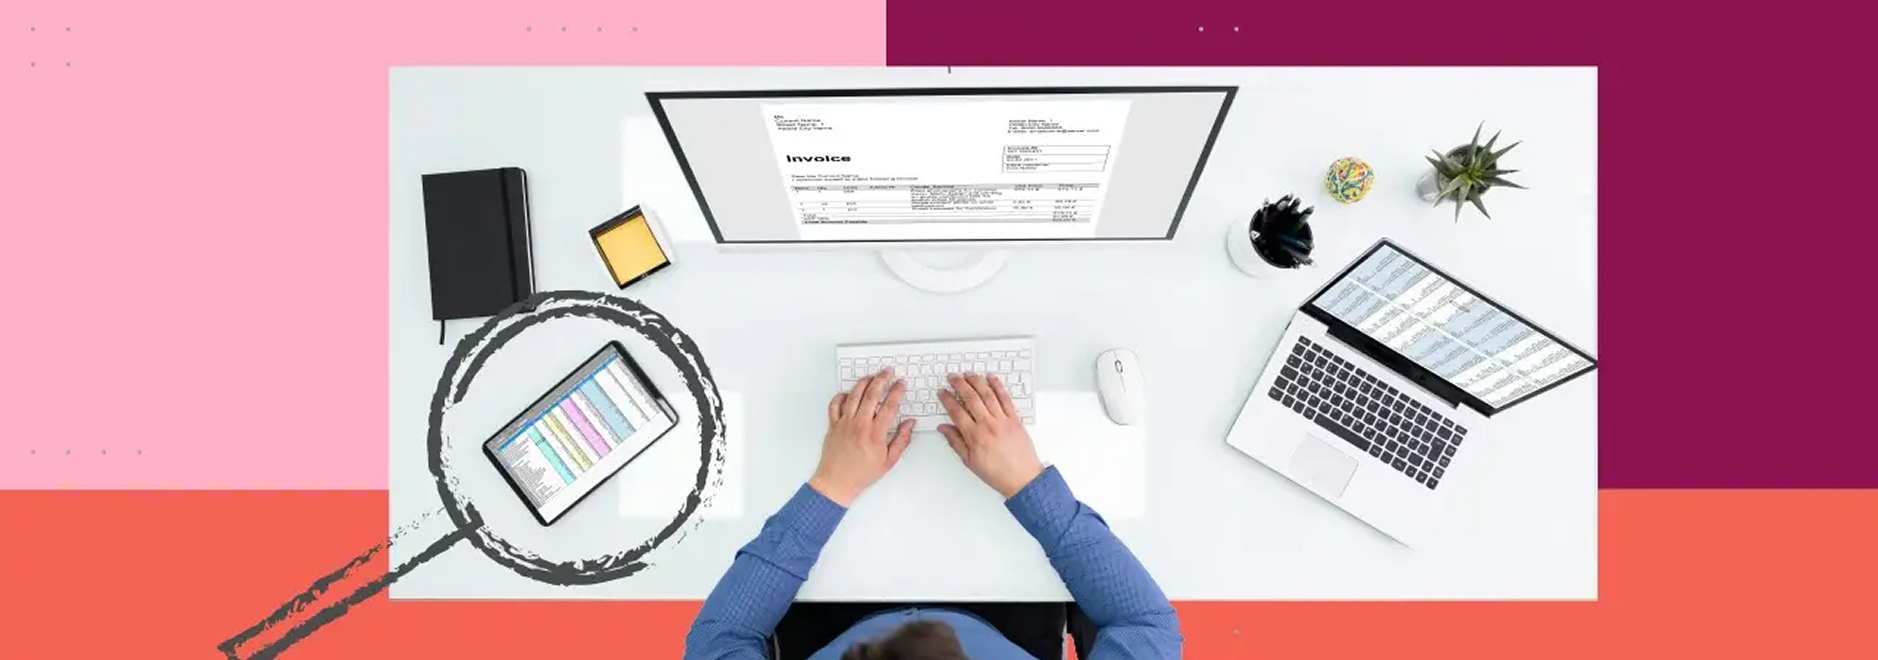
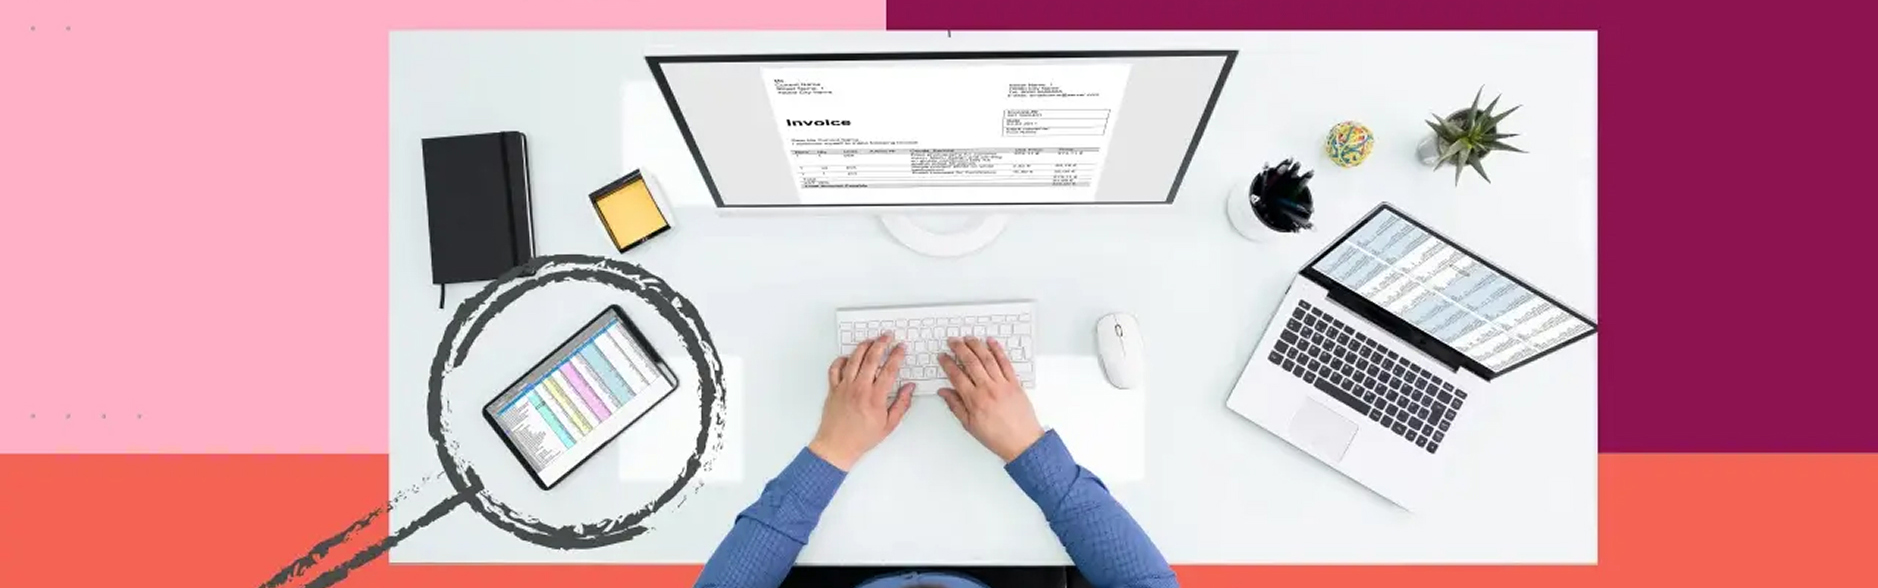
on our work page reduce image height and added bullets.

Changed region(s): [[0.0, 0.0306, 0.8647, 1.0], [0.8339, 0.7347, 1.0, 0.7959], [0.5868, 0.6122, 0.6177, 0.6735]]

diff --git a/src/app/our-works/_components/Projects.tsx b/src/app/our-works/_components/Projects.tsx
@@ -68,22 +68,22 @@ const projects = [
         cardHeading: "Capabilities involved",
         cardDes: (
           <>
-            hardware design <br />
-            PCB layout & routing <br />
-            antenna design <br />
-            RF protocol design <br />
-            firmware development <br />
-            power optimization <br />
-            mechanical design
-            <br />
-            3D rendering <br />
-            custom PCB membrane design <br />
-            user interface design
-            <br />
-            power & signal integrity analysis <br />
-            lab prototyping <br />
-            tooling design <br />
-            DfM+DfA optimization
+            <ul className="list-disc ps-[17px] grid grid-cols-2">
+              <li>hardware design</li>
+              <li>PCB layout & routing</li>
+              <li>antenna design</li>
+              <li>RF protocol design</li>
+              <li>firmware development</li>
+              <li>power optimization</li>
+              <li>mechanical design</li>             
+              <li>3D rendering</li>
+              <li>custom PCB membrane design</li>
+              <li>user interface design</li>             
+              <li>power & signal integrity analysis</li>
+              <li>lab prototyping</li>
+              <li>tooling design</li>
+              <li>DfM+DfA optimization</li>
+            </ul>
           </>
         ),
       },
@@ -119,15 +119,15 @@ const projects = [
         cardHeading: "Capabilities involved",
         cardDes: (
           <>
-            hardware design <br />
-            PCB layout & routing <br />
-            firmware development
-            <br />
-            wireless protocol implementation <br />
-            mechanical design <br />
-            3D rendering <br />
-            user interface design
-            <br />
+          <ul className="list-disc ps-[17px] grid grid-cols-2">
+              <li>hardware design</li>
+              <li>PCB layout & routing</li>
+              <li>firmware development</li>
+              <li>wireless protocol implementation</li>
+              <li>mechanical design</li>             
+              <li>3D rendering</li>
+              <li>user interface design</li>
+            </ul>
           </>
         ),
       },
@@ -163,14 +163,15 @@ const projects = [
         cardHeading: "Capabilities involved",
         cardDes: (
           <>
-            analog & digital hardware design <br />
-            mixed-signal PCB layout & routing <br />
-            firmware development
-            <br />
-            wireless protocol implementation <br />
-            mechanical design <br />
-            3D rendering <br />
-            user interface design
+          <ul className="list-disc ps-[17px] grid grid-cols-2">
+          <li>analog & digital hardware design</li>
+          <li>mixed-signal PCB layout & routing</li>
+          <li>firmware development</li>
+          <li>wireless protocol implementation</li>
+          <li> mechanical design</li>
+          <li>3D rendering</li>
+          <li>user interface design</li> 
+        </ul>
           </>
         ),
       },
